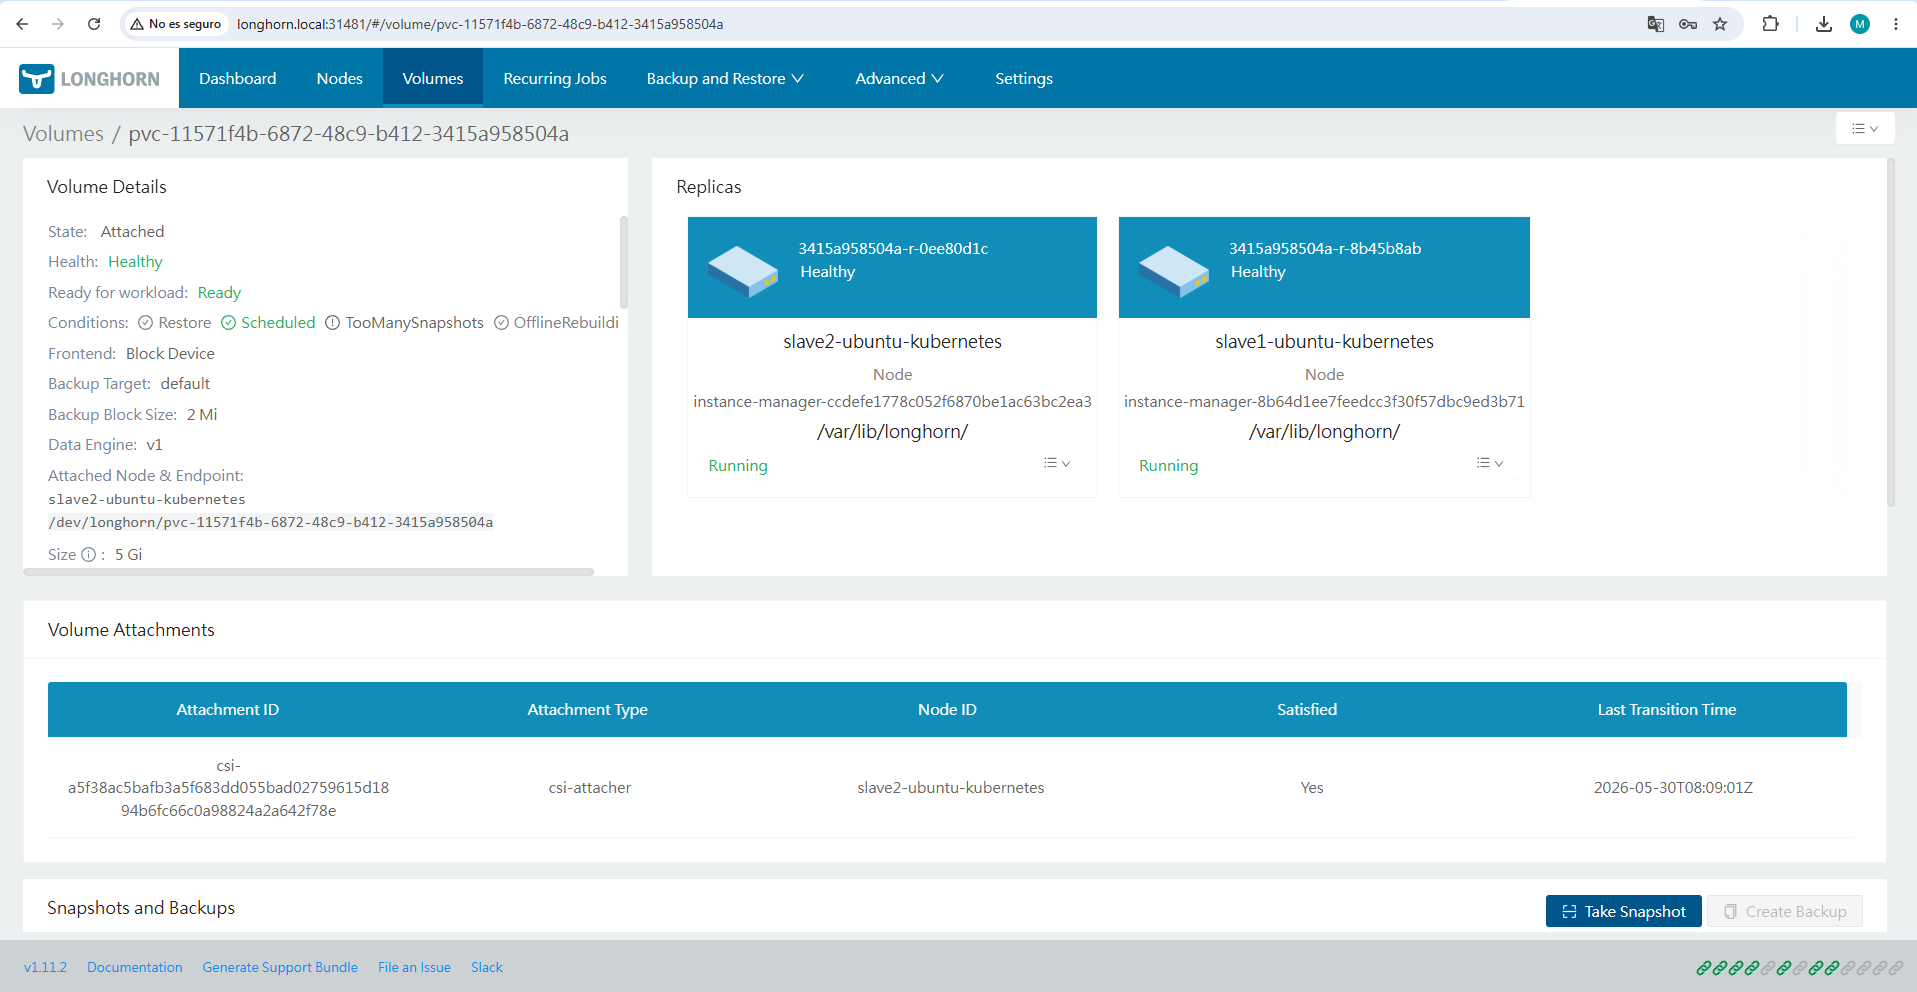
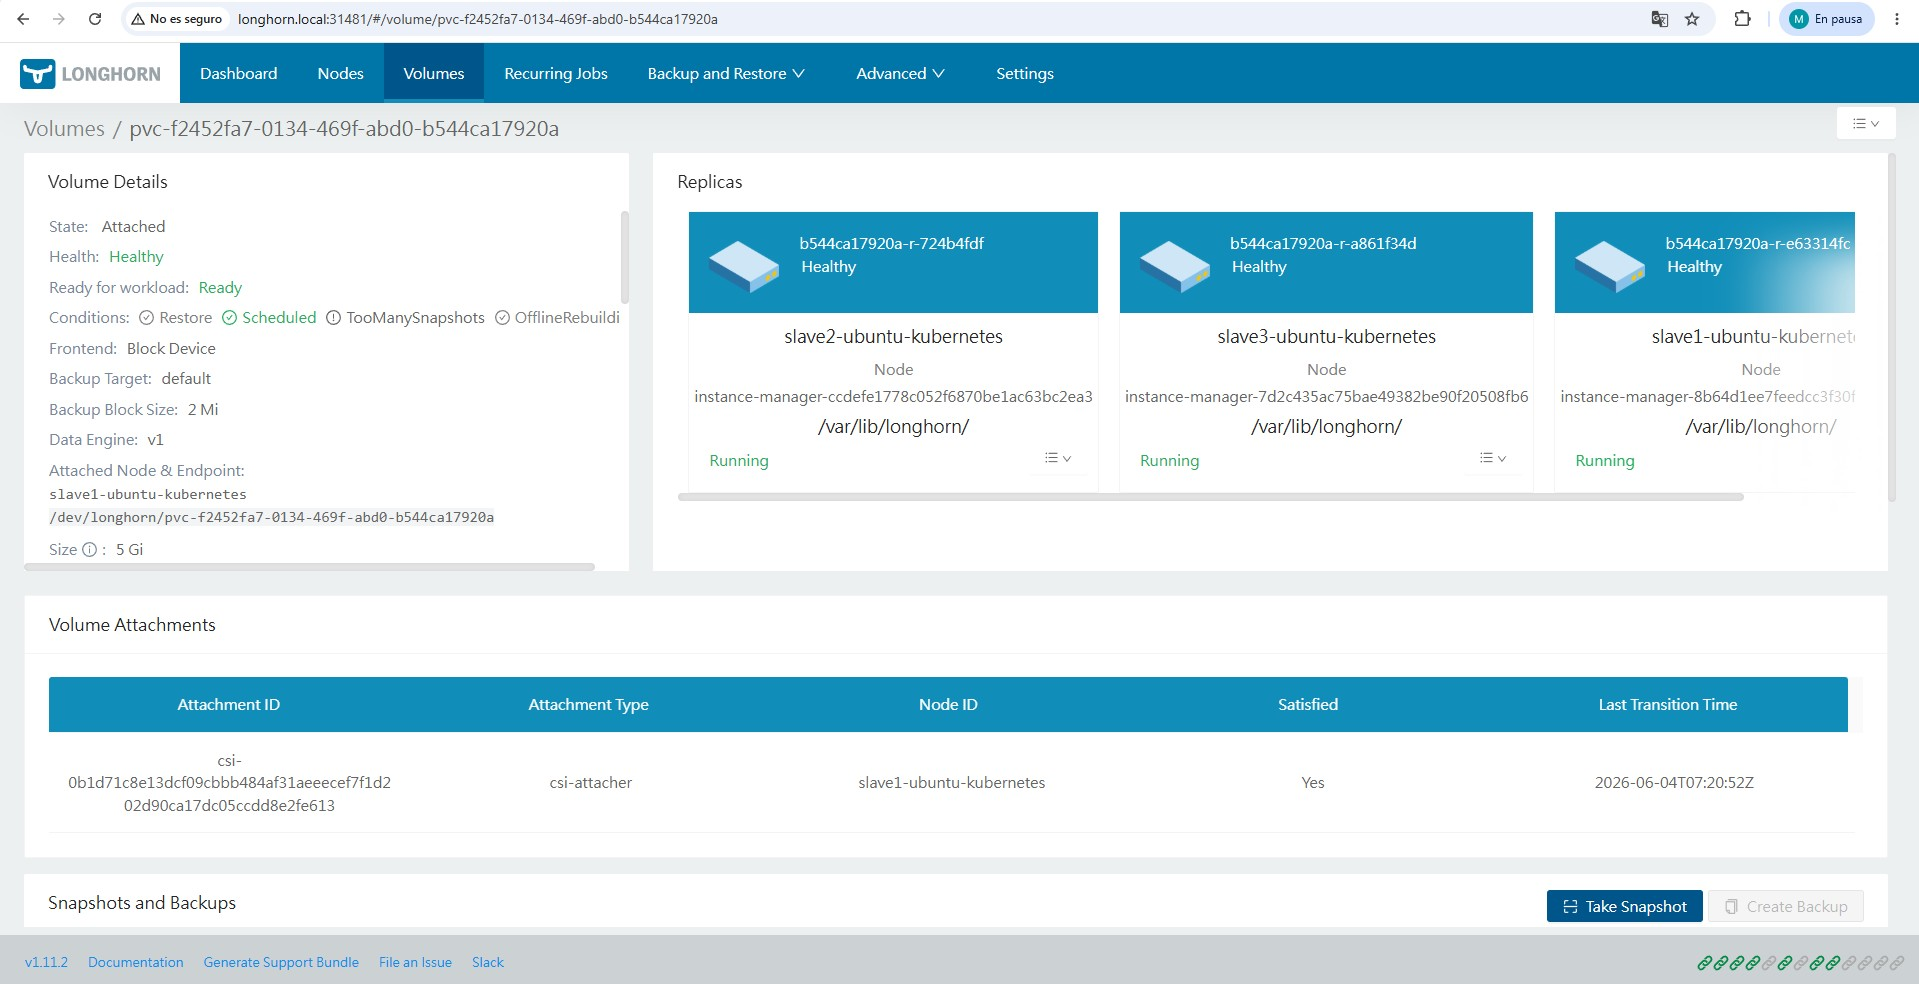
add images and definitions

diff --git a/README.md b/README.md
@@ -299,6 +299,7 @@ Al apagar violentamente la VM de almacenamiento:
 
 * El PVC quedó congelado durante varios minutos.
 * MySQL dejó de responder temporalmente.
+* El volumen no se liberaba del nodo apagado
 
 ---
 
@@ -308,25 +309,15 @@ Longhorn protege automáticamente contra escenarios de:
 
 # Split-Brain
 
-Evita que múltiples réplicas inconsistentes acepten escrituras simultáneamente tras una pérdida abrupta de conectividad.
-
+Longhorn evita que múltiples réplicas inconsistentes acepten escrituras simultáneamente tras una pérdida abrupta de conectividad. Cuando un nodo se apaga de forma inesperada, el volumen queda bloqueado temporalmente porque Kubernetes no puede determinar si la caída es permanente o si el nodo volverá a estar disponible en pocos minutos. Este mecanismo evita posibles corrupciones de datos derivadas de escrituras concurrentes.
 ---
 
 ## ✅ Solución
 
-Forcé el desalojo del nodo y la recreación inmediata del Pod:
+Indique al nodo como fuera de servicio y recreo el pod en otro nodo satisfactoriamente:
 
-```bash
-kubectl drain slave1-ubuntu-kubernetes \
-  --force \
-  --ignore-daemonsets \
-  --delete-emptydir-data
-```
-
-```bash
-kubectl delete pod mysql-0 \
-  --force \
-  --grace-period=0
+```bash`
+kubectl taint nodes slave3-ubuntu-kubernetes node.kubernetes.io/out-of-service=nodeshutdown:NoExecute
 ```
 
 Resultado:
@@ -356,8 +347,8 @@ Visualización del estado saludable de nodos y workloads.
 Volumen de MySQL correctamente replicado entre nodos.
 
 <img src="img/dashboard_longhorn.png" alt="dashboard longhorn" width="100%">
-<img src="img/dashboard_longhorn_volume_nodes.png" alt="dashboard volume nodes" width="100%">
-<img src="img/dashboard_longorn_nodes.png" alt="dashboard longhorn nodes" width="100%">
+<img src="img/dashboard_longhorn_volume_nodess.png" alt="dashboard volume nodes" width="100%">
+<img src="img/dashboard_longhorn_nodes.png" alt="dashboard longhorn nodes" width="100%">
 
 ---
 
@@ -375,17 +366,27 @@ Aplicación desplegada mediante Ingress Controller.
 
 Failover del StatefulSet tras apagar un nodo.
 
+<img src="img/pods-before-taint.png" alt="pods_before_tainted" width="100%">
+<img src="img/pods-after-tainted-node.png" alt="pods_after_tainted" width="100%">
+
 ---
 
 ## 🟡 Longhorn en modo Degraded
 
 El sistema mantiene disponibilidad incluso durante la caída de una VM.
 
+<img src="longhorn_degraded.png" alt="longhorn_degraded" width="100%">
 ---
 
 ## ♻️ Recuperación Automática
 
-Resincronización automática de réplicas tras la recuperación del nodo.
+<img src="img/pods_sync.png" alt="pods_sync" width="100%">
+
+---
+
+## ♻️ Recuperación del volumen al nodo una vez asignado como untainted 
+
+<img src="img/rebulding_volumen_after_untainted.png" alt="pods_sync" width="100%">
 
 ---
 